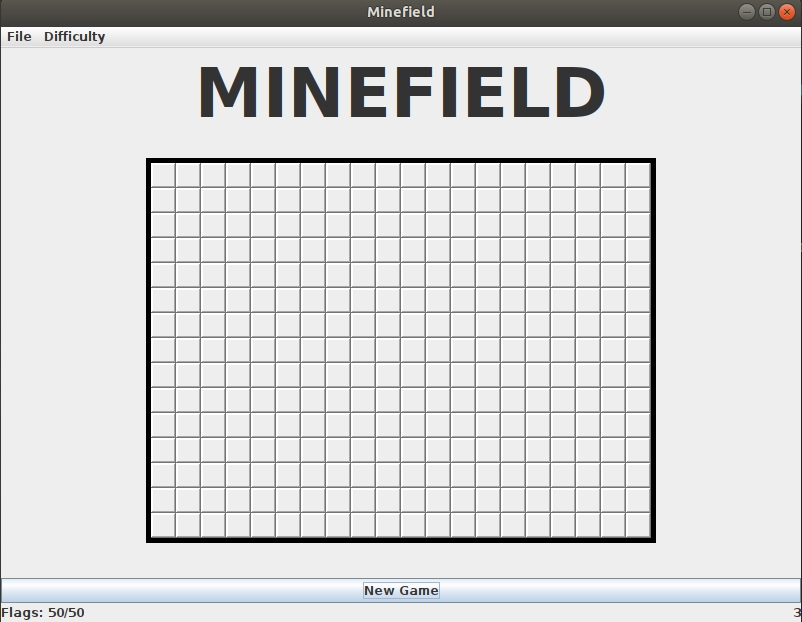
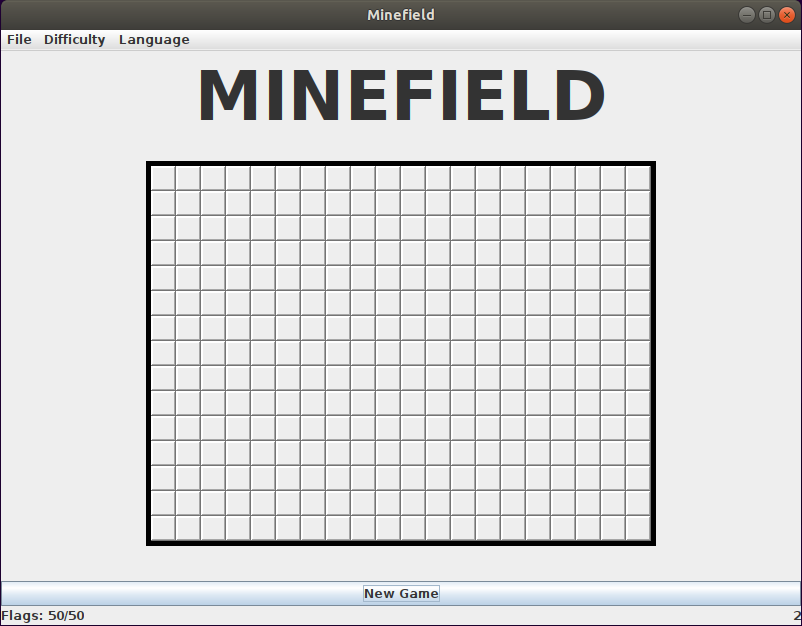
Update images and readme

diff --git a/README.md b/README.md
@@ -10,6 +10,10 @@ Given a field composed of a grid of cells, the goal of the player is to open the
 
 There are three difficulty modes (Beginner, Intermediate and Expert), each having a specific grid size and number of mines.
 
+Also, there are two available languages: English and Portuguese.
+
+Difficulty and language can be changed through the menu bar in the application.
+
 ![Defeat on Expert](https://raw.githubusercontent.com/ceccon-t/minefield/main/images/minefield_sc1.png "Defeat on Expert")
 
 ![Victory on Beginner](https://raw.githubusercontent.com/ceccon-t/minefield/main/images/minefield_sc2.png "Victory on Beginner")
